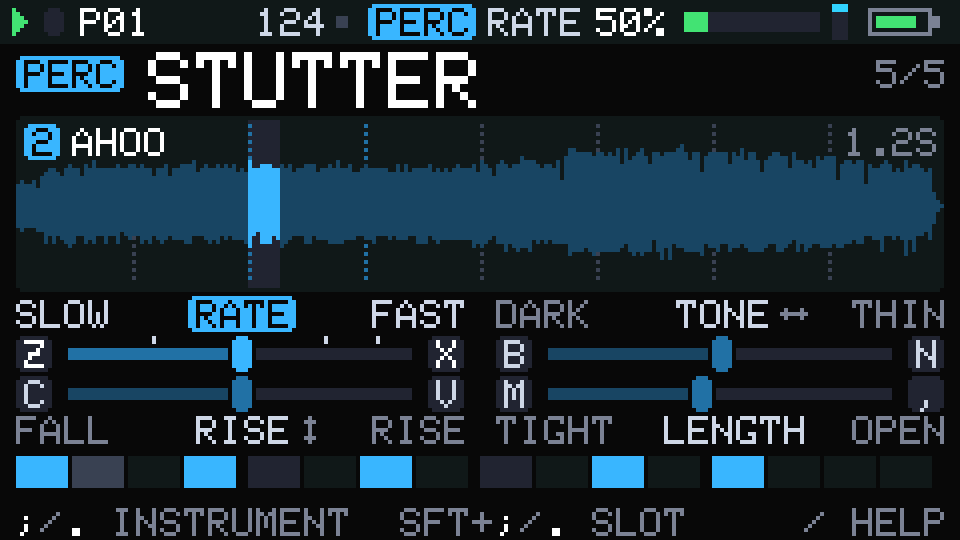
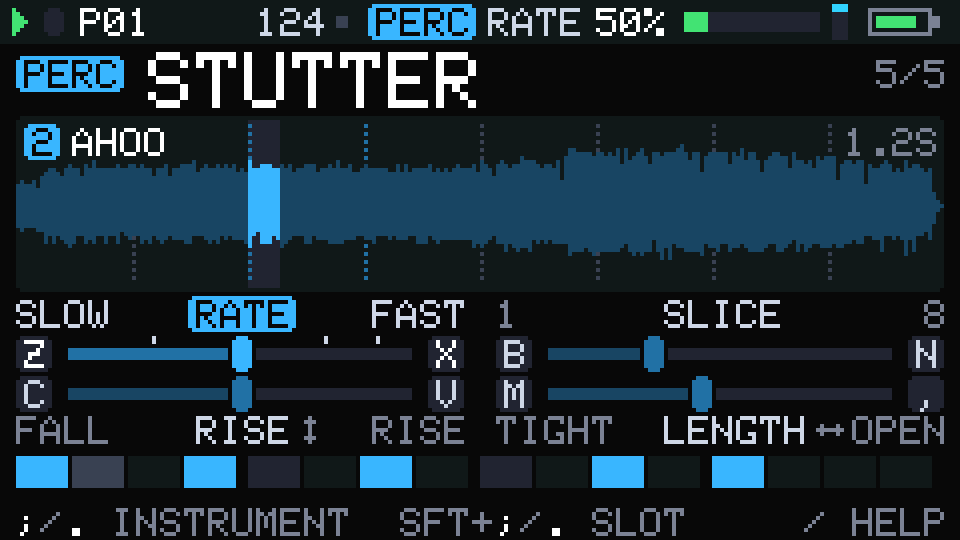
STUTTER: SLICE takes TONE's place (pick which of eight slices repeats, per note with a held step)
Claude-Session: https://claude.ai/code/session_0184BPLkX1vesFQsqL6SSkXY

diff --git a/lib/pg/src/pg/macro/builtin_data.cpp b/lib/pg/src/pg/macro/builtin_data.cpp
@@ -341,25 +341,24 @@ extern const MacroSet kBuiltin[] = {
       0x0119412cu, 0x0445c3e8u, 0x07c06000u, 0x06b6c0c8u, 0x03c8c3e8u, 0x00000000u, 0x017703e8u, 0x00000000u,
       0x052083e8u, 0x005dc000u, 0x036b03e8u}},
     // perc/stutter.pgm
-    {5, 4, 8, 25, 0, 0, 0, 0,
-     {0x92, 0x91},   // tilt x, y
+    {5, 4, 5, 21, 0, 0, 0, 0,
+     {0x93, 0x91},   // tilt x, y
      0x5570, "STUTTER",
      "family: ENERGY (sampler).",
      "One chop, repeated in time.", 1,   // voice kind
-     0x0104030bu, {8, 2, 0, 40, 0, 0, 0, 0, 0, 92, 0, 0, 0, 0, 0, 0, 0, 0, 34, 0, 0, 0, 0, 0, 118, 0, 0, 0, 0, 0, 0, 0},
+     0x01040309u, {8, 0, 0, 40, 0, 0, 0, 0, 0, 92, 0, 0, 0, 0, 0, 0, 0, 0, 34, 0, 0, 0, 0, 0, 118, 0, 0, 0, 0, 0, 0, 0},
      {{"RATE", "SLOW", "FAST", "repeats from 1/4 to 1/32", 500, 0, 1},
       {"RISE", "FALL", "RISE", "each repeat lower .. higher", 500, 1, 1},
-      {"TONE", "DARK", "THIN", "low-pass .. open .. high-pass", 500, 2, 4},
-      {"LENGTH", "TIGHT", "OPEN", "a blip per repeat .. the whole slice", 450, 6, 2}},
+      {"SLICE", "1", "8", "which of eight slices repeats", 300, 2, 1},
+      {"LENGTH", "TIGHT", "OPEN", "a blip per repeat .. the whole slice", 450, 3, 2}},
      {},
      {},
      {},
-     {{16, 120, 0, 5}, {17, 112, 5, 4}, {12, 120, 9, 2}, {10, 112, 11, 4}, {11, 112, 15, 3}, {13, 112, 18, 3}, {3, 112, 21, 2}, {9, 112, 23, 2}},
+     {{16, 120, 0, 5}, {17, 112, 5, 4}, {1, 120, 9, 8}, {3, 112, 17, 2}, {9, 112, 19, 2}},
      {},
      {0x001f4000u, 0x002ee0fau, 0x004e21f4u, 0x005dc2eeu, 0x006d6384u, 0x02af8000u, 0x03e801c2u, 0x03e80226u,
-      0x052083e8u, 0x00000000u, 0x001f41f4u, 0x02ee0000u, 0x07c061f3u, 0x000001f4u, 0x04a383e8u, 0x02328000u,
-      0x007d01f4u, 0x027103e8u, 0x00000000u, 0x000002bcu, 0x02ee03e8u, 0x003e8000u, 0x07c063e8u, 0x0445c000u,
-      0x067843e8u}},
+      0x052083e8u, 0x00000000u, 0x000fa07du, 0x001f40fau, 0x002ee177u, 0x003e81f4u, 0x004e2271u, 0x005dc2eeu,
+      0x006d636bu, 0x003e8000u, 0x07c063e8u, 0x0445c000u, 0x067843e8u}},
     // bass/acid.pgm
     {6, 4, 19, 43, 0, 0, 0, 0,
      {0x00, 0x00},   // tilt x, y

diff --git a/docs/MANUAL.md b/docs/MANUAL.md
@@ -1191,7 +1191,7 @@ The PERC track can play a **sample** instead of its percussion sound: step its i
 |---|---|---|---|---|
 | CHOP: the sample cut into 16 slices, each note picks one | SLICE (1 .. 16) | PITCH (two octaves down .. up) | TONE (dark .. open .. thin) | LENGTH (a blip .. the whole slice) |
 | TAPE: the whole sample as tape | SPEED (backwards .. stopped .. normal .. double) | START (head .. tail) | WORN (clean .. crushed and dark) | ECHO (dry .. delay and reverb) |
-| STUTTER: one chop repeated in time | RATE (1/4 .. 1/32) | RISE (each repeat lower .. higher) | TONE (dark .. thin) | LENGTH (tight .. open) |
+| STUTTER: one chop repeated in time | RATE (1/4 .. 1/32) | RISE (each repeat lower .. higher) | SLICE (which of eight repeats; per note with a held step) | LENGTH (tight .. open) |
 
 - **A slice per note (CHOP)**: hold a step and press `z` / `x`: that note gets its own SLICE (chapter 10, "note values"). A row of notes with different slices re-orders the sample.
 - **Pitch**: on a sampler instrument the note keys play the sample at pitches: `z` is the sample as recorded, the others go up the project's scale. In STEP EDIT the note keys set the held note's pitch, `;` / `.` move it a semitone, `ctrl` an octave.

diff --git a/macros/INDEX.md b/macros/INDEX.md
@@ -56,7 +56,7 @@ Model v2 (2026-11-13) changed five sets to use its new features, so marks on the
 | TAP | perc/tap.pgm | Gesture | a hand drum: soft tap to slap, pressing the skin, letting it ring | HIT PRESS LET | 16ths with accents, PRESS while it rolls |
 | CHOP | perc/chop.pgm | Gesture (sampler) | a sample in 16 slices, each note picks its own; pitch, tone, length | SLICE PITCH TONE LENGTH | a row of notes, each with its own SLICE |
 | TAPE | perc/tape.pgm | Movement (sampler) | the whole sample as tape: speed through stopped into reverse, start point, wear, echo | SPEED START WORN ECHO | long notes, SPEED down for a tape stop |
-| STUTTER | perc/stutter.pgm | Energy (sampler) | one chop repeated at a tempo-synced rate, rising or falling per repeat | RATE RISE TONE LENGTH | single steps, RISE up, RATE by hand |
+| STUTTER | perc/stutter.pgm | Energy (sampler) | one chop repeated at a tempo-synced rate, rising or falling per repeat | RATE RISE SLICE LENGTH | single steps, RISE up, RATE by hand |
 
 ## What round 1 is testing
 

diff --git a/docs/STATE.md b/docs/STATE.md
@@ -343,7 +343,7 @@ Order of work (owner, updated 2026-11-12):
    speed through stopped into reverse / pitch / attack / release / SVF LP-BP-HP / bit crush /
    sample-and-hold / drive / tempo-synced repeats with pitch and fade per repeat / loop
    (20 parameters, docs/MACROLAB.md "The voice line"). Sets: perc CHOP (SLICE PITCH TONE
-   LENGTH), TAPE (SPEED START WORN ECHO), STUTTER (RATE RISE TONE LENGTH), in builtin.txt
+   LENGTH), TAPE (SPEED START WORN ECHO), STUTTER (RATE RISE SLICE LENGTH; SLICE took TONE's place on 2026-11-13 at the owner's request), in builtin.txt
    after TAP and TRAIL (the demos are unchanged). Engine: a sampler note with its own macro
    values is primed with them before its note-on (primeNote), so CHOP's per-note SLICE is the
    note's. Desktop: samples/ next to projects/ (01-name.wav .. 12-name.wav, polled, any WAV
